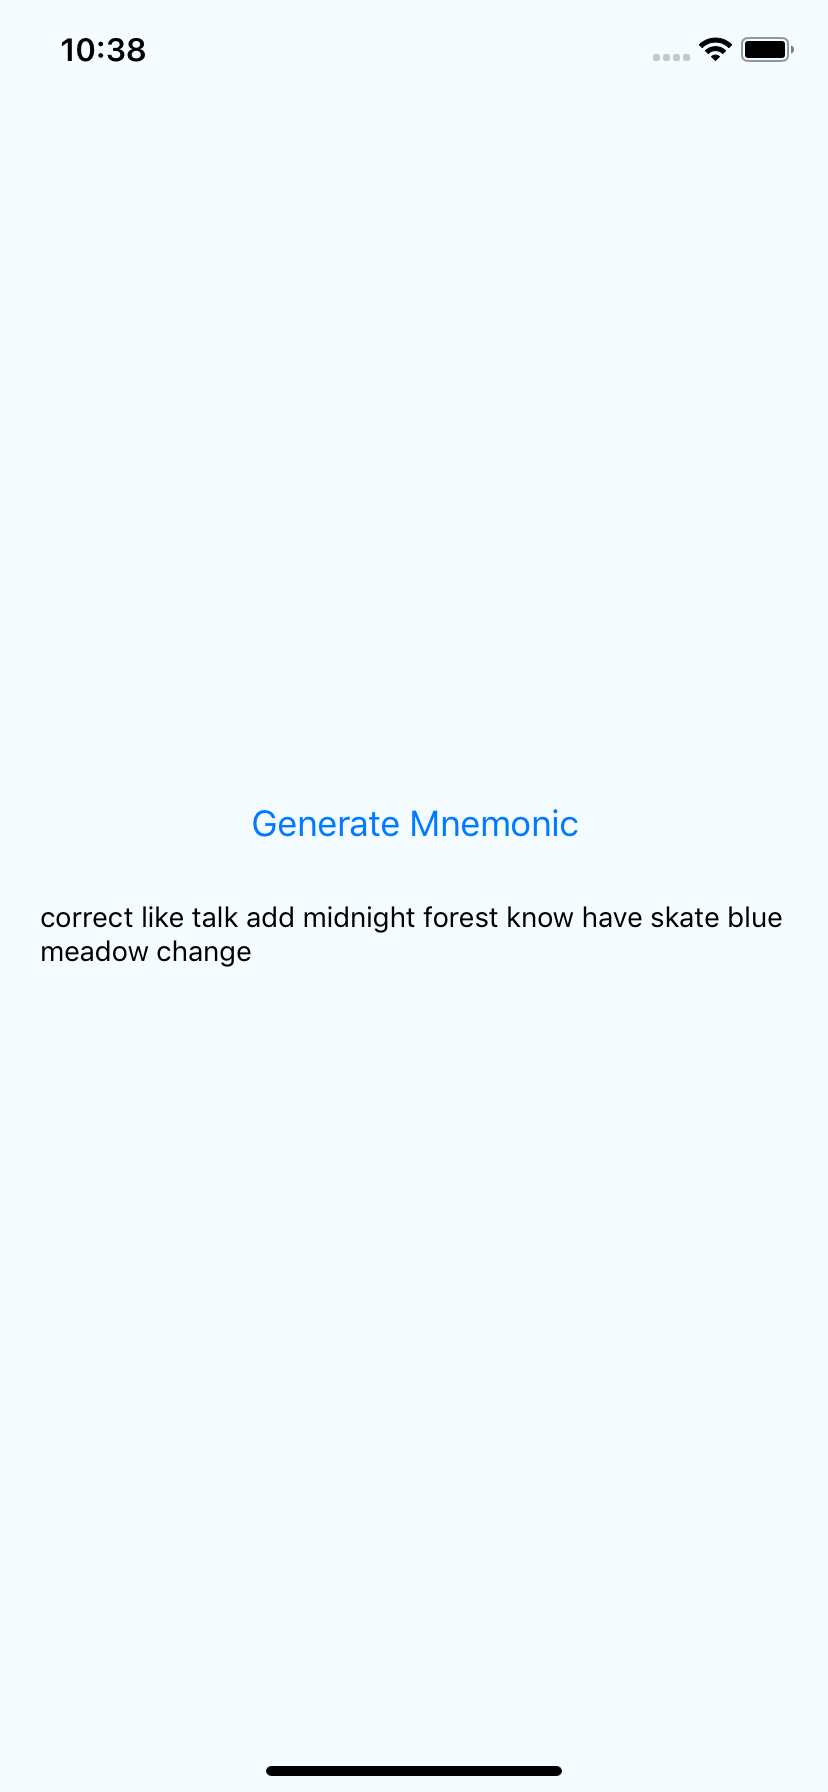
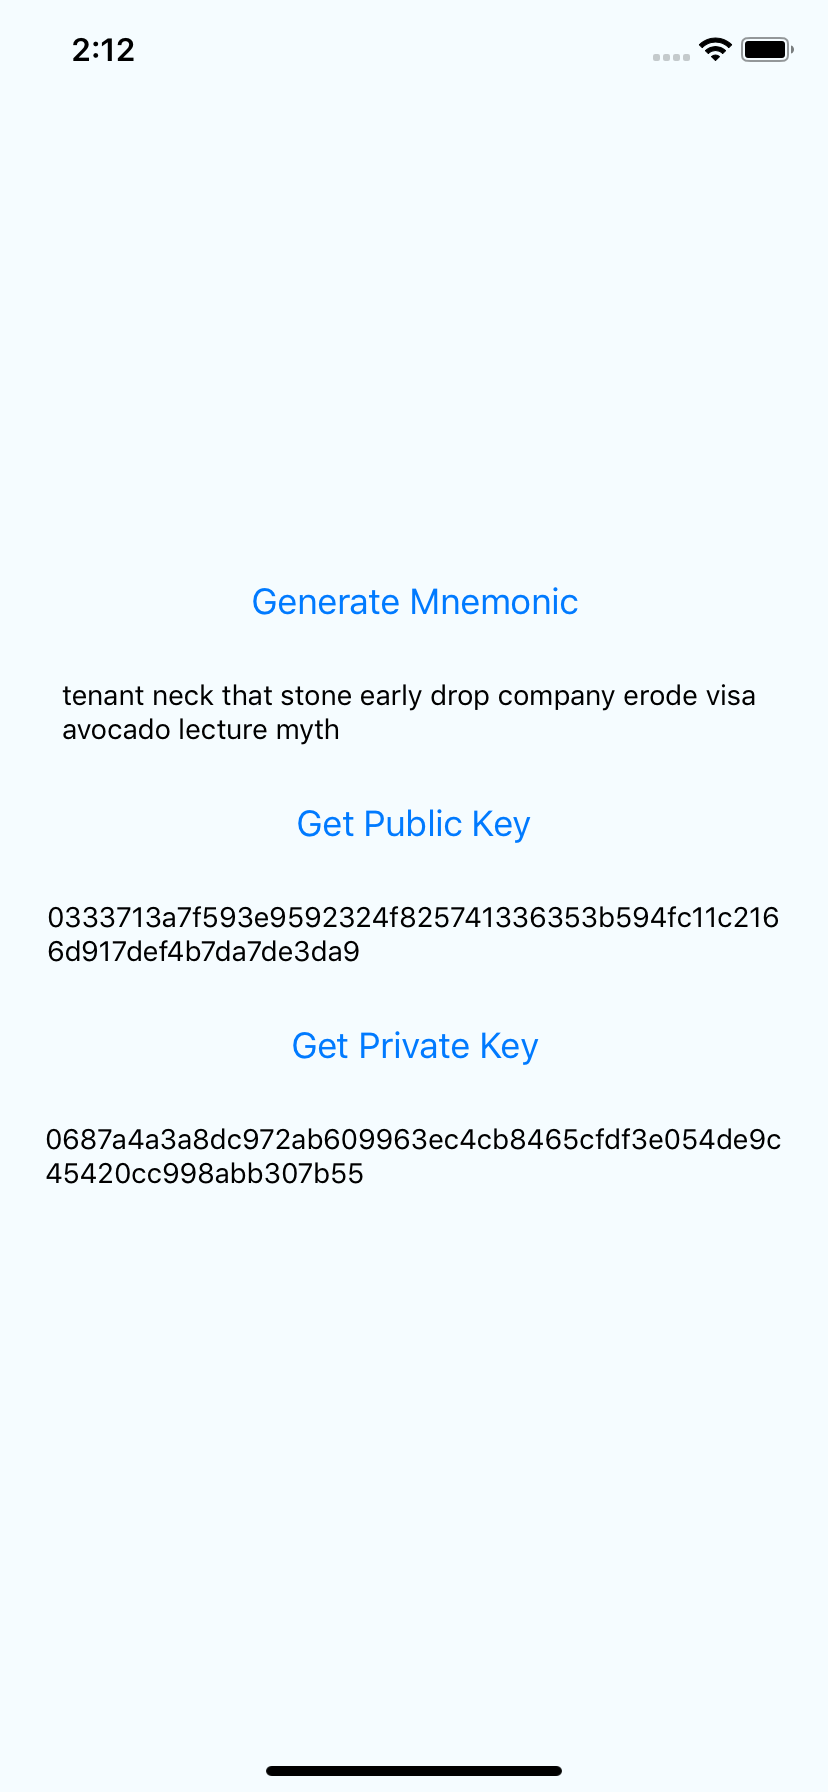
Add new API functions for iOS
- add getSinglePrivateKey API function
- add getSinglePublicKey API function
- new screenshot

diff --git a/App.js b/App.js
@@ -21,16 +21,27 @@ type Props = {};
 export default class App extends Component<Props> {
 
     state={
-        menmonic: ""
+        menmonic: "",
+        pk:"",
+        sk:""
     }
 
 
-    sayHi = () => {
-        console.log("BLABLA.................")
-        console.log(RNElastosMainchain);
+    generateMnemonic = () => {
         RNElastosMainchain.generateMnemonic( (err, res) => {
-            console.log(res);
             this.setState({mnemonic: res})
+        });
+    }
+
+    getSinglePublicKey = () => {
+        RNElastosMainchain.getSinglePublicKey( (err, res) => {
+            this.setState({pk: res})
+        });
+    }
+
+    getSinglePrivateKey = () => {
+        RNElastosMainchain.getSinglePrivateKey( (err, res) => {
+            this.setState({sk: res})
         });
     }
 
@@ -39,12 +50,28 @@ export default class App extends Component<Props> {
     return (
       <View style={styles.container}>
 
-         <Button title="Generate Mnemonic" onPress={this.sayHi} />
+         <Button title="Generate Mnemonic" onPress={this.generateMnemonic} />
 
          { this.state.mnemonic == "" ?
              <View></View>
              :
              <View style={{padding:20}}><Text>{this.state.mnemonic}</Text></View>
+         }
+
+         <Button title="Get Public Key" onPress={this.getSinglePublicKey} />
+
+         { this.state.pk == "" ?
+             <View></View>
+             :
+             <View style={{padding:20}}><Text>{this.state.pk}</Text></View>
+         }
+
+         <Button title="Get Private Key" onPress={this.getSinglePrivateKey} />
+
+         { this.state.sk == "" ?
+             <View></View>
+             :
+             <View style={{padding:20}}><Text>{this.state.sk}</Text></View>
          }
 
       </View>

diff --git a/android/app/src/main/java/com/rnmainchaindemo/MainApplication.java b/android/app/src/main/java/com/rnmainchaindemo/MainApplication.java
@@ -4,6 +4,7 @@ import android.app.Application;
 
 import com.facebook.react.ReactApplication;
 import org.elastos.mainchain.reactnative.RNElastosMainchainPackage;
+import org.elastos.mainchain.reactnative.RNElastosMainchainPackage;
 import org.elastos.mainchain.reactnative.RNMainchainPluginPackage;
 import com.facebook.react.ReactNativeHost;
 import com.facebook.react.ReactPackage;
@@ -25,6 +26,7 @@ public class MainApplication extends Application implements ReactApplication {
     protected List<ReactPackage> getPackages() {
       return Arrays.<ReactPackage>asList(
           new MainReactPackage(),
+            new RNElastosMainchainPackage(),
             new RNElastosMainchainPackage(),
             new RNMainchainPluginPackage()
       );
